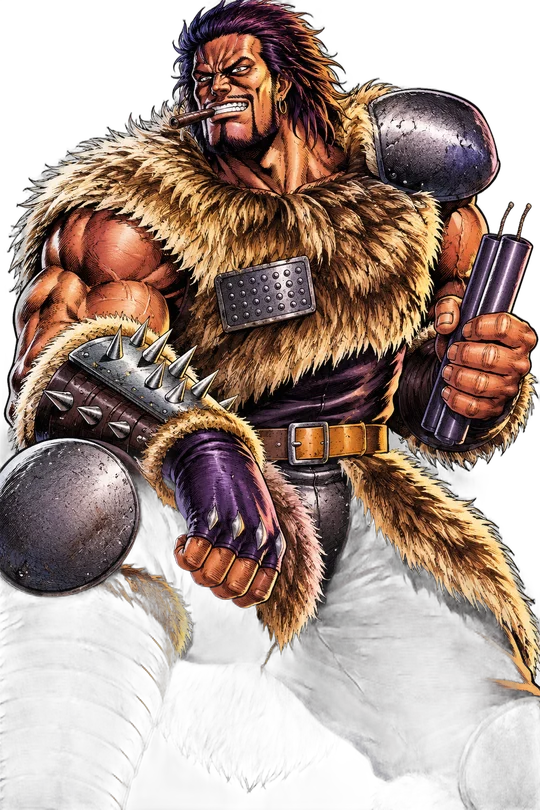
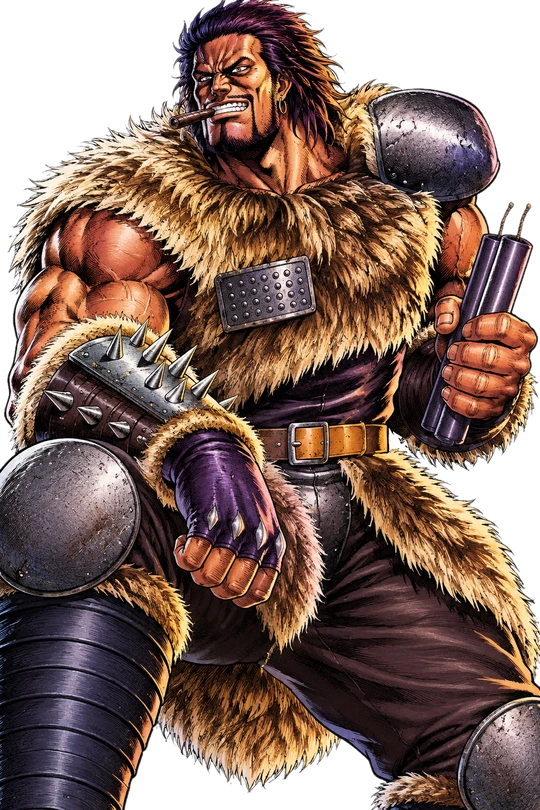
v0.19.1 : illustrations Jackal et Uighur (jambes manquantes)
Claude-Session: https://claude.ai/code/session_014s4g83MbSFVcN4jjfkWf8U

diff --git a/public/index.html b/public/index.html
@@ -2620,6 +2620,7 @@ async function playTourMatch(t,m){
 /* ---------- versions et journal des modifications ---------- */
 // La première entrée est la version en cours. À chaque mise à jour : nouvelle entrée en tête (fr / en / it).
 const CHANGELOG=[
+ {v:"0.19.1",d:"2026-10-03",fr:["Illustrations de Jackal et Uighur corrigées (il leur manquait les jambes)"],en:["Fixed Jackal and Uighur artwork (their legs were missing)"],it:["Corrette le illustrazioni di Jackal e Uighur (mancavano le gambe)"]},
  {v:"0.19.0",d:"2026-10-03",fr:["Joueurs en ligne : un compteur sur l'écran principal, et la liste de qui est connecté et ce qu'il fait (menus, combat, survie, versus, file d'attente, tournoi)"],en:["Players online: a counter on the main screen, and the list of who is connected and what they are doing (menus, fight, survival, versus, queue, tournament)"],it:["Giocatori online: un contatore nella schermata principale, e la lista di chi è connesso e cosa sta facendo (menu, combattimento, sopravvivenza, versus, coda, torneo)"]},
  {v:"0.18.0",d:"2026-10-03",fr:["Nouveau mode Survie : enchaîne des vagues d'adversaires de plus en plus forts, tes PV ne remontent qu'en partie entre les combats, repos au village toutes les 5 vagues","Chaque vague gagnée rapporte des points, et ton record apparaît dans le Classement (onglet Survie)"],en:["New Survival mode: fight waves of ever stronger opponents, your HP only partly recovers between fights, rest at the village every 5 waves","Each wave cleared gives points, and your record shows in the Leaderboard (Survival tab)"],it:["Nuova modalità Sopravvivenza: affronta ondate di avversari sempre più forti, i PV si recuperano solo in parte tra i combattimenti, riposo al villaggio ogni 5 ondate","Ogni ondata superata dà punti, e il tuo record appare nella Classifica (scheda Sopravvivenza)"]},
  {v:"0.17.5",d:"2026-10-03",fr:["Plateau : plus de nom sous les pastilles des réservistes (survol pour le voir)"],en:["Board: no more names under reserve tokens (hover to see it)"],it:["Tavolo: niente più nomi sotto le pedine delle riserve (passa sopra per vederlo)"]},

diff --git a/CHANGELOG.md b/CHANGELOG.md
@@ -2,6 +2,10 @@
 
 Généré depuis le jeu (`CHANGELOG` dans public/index.html). Visible en jeu via le bouton de version.
 
+## v0.19.1 — 2026-10-03
+
+- Illustrations de Jackal et Uighur corrigées (il leur manquait les jambes)
+
 ## v0.19.0 — 2026-10-03
 
 - Joueurs en ligne : un compteur sur l'écran principal, et la liste de qui est connecté et ce qu'il fait (menus, combat, survie, versus, file d'attente, tournoi)
